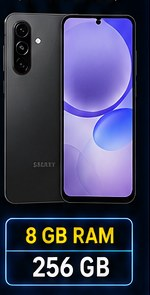
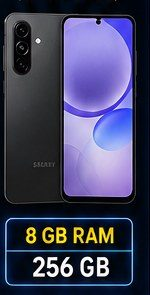
Add files via upload

diff --git a/index.html b/index.html
@@ -109,7 +109,7 @@ footer{margin-top:55px;background:#071b68;color:#fff;padding:35px 20px}
 <a class="btn" href="https://wa.me/595975403525?text=Hola%20Audi,%20quiero%20la%20cotizaci%C3%B3n%20actual%20de%20OPPO%20A20" target="_blank">💬 Contactame por WhatsApp</a>
 </div>
 </article><article class="card" data-search="OPPO OPPO A40">
-<div class="photo-wrap"><img alt="OPPO A40" loading="lazy" src="img/producto_07.png"/></div></article></div>
+<div class="photo-wrap"><img alt="OPPO A40" loading="lazy" src="img/producto_07.jpg"/></div></article></div>
 <div class="card-body">
 <div class="brand">OPPO</div>
 <h3>OPPO A40</h3>
@@ -118,7 +118,7 @@ footer{margin-top:55px;background:#071b68;color:#fff;padding:35px 20px}
 <a class="btn" href="https://wa.me/595975403525?text=Hola%20Audi,%20quiero%20la%20cotizaci%C3%B3n%20actual%20de%20OPPO%20A40" target="_blank">💬 Contactame por WhatsApp</a>
 </div>
 <article class="card" data-search="OPPO OPPO A5">
-<div class="photo-wrap"><img alt="OPPO A5" loading="lazy" src="img/producto_08.png"/></div>
+<div class="photo-wrap"><img alt="OPPO A5" loading="lazy" src="img/producto_08.jpg"/></div>
 <div class="card-body">
 <div class="brand">OPPO</div>
 <h3>OPPO A5</h3>
@@ -127,7 +127,7 @@ footer{margin-top:55px;background:#071b68;color:#fff;padding:35px 20px}
 <a class="btn" href="https://wa.me/595975403525?text=Hola%20Audi,%20quiero%20la%20cotizaci%C3%B3n%20actual%20de%20OPPO%20A5" target="_blank">💬 Contactame por WhatsApp</a>
 </div>
 </article><article class="card" data-search="OPPO OPPO A6">
-<div class="photo-wrap"><img alt="OPPO A6" loading="lazy" src="img/producto_09.png"/></div>
+<div class="photo-wrap"><img alt="OPPO A6" loading="lazy" src="img/producto_09.jpg"/></div>
 <div class="card-body">
 <div class="brand">OPPO</div>
 <h3>OPPO A6</h3>
@@ -136,7 +136,7 @@ footer{margin-top:55px;background:#071b68;color:#fff;padding:35px 20px}
 <a class="btn" href="https://wa.me/595975403525?text=Hola%20Audi,%20quiero%20la%20cotizaci%C3%B3n%20actual%20de%20OPPO%20A6" target="_blank">💬 Contactame por WhatsApp</a>
 </div>
 </article><article class="card" data-search="OPPO OPPO A6X">
-<div class="photo-wrap"><img alt="OPPO A6X" loading="lazy" src="img/producto_10.png"/></div>
+<div class="photo-wrap"><img alt="OPPO A6X" loading="lazy" src="img/producto_10.jpg"/></div>
 <div class="card-body">
 <div class="brand">OPPO</div>
 <h3>OPPO A6X</h3>
@@ -145,7 +145,7 @@ footer{margin-top:55px;background:#071b68;color:#fff;padding:35px 20px}
 <a class="btn" href="https://wa.me/595975403525?text=Hola%20Audi,%20quiero%20la%20cotizaci%C3%B3n%20actual%20de%20OPPO%20A6X" target="_blank">💬 Contactame por WhatsApp</a>
 </div>
 </article><article class="card" data-search="OPPO OPPO Reno 13F">
-<div class="photo-wrap"><img alt="OPPO Reno 13F" loading="lazy" src="img/producto_11.png"/></div>
+<div class="photo-wrap"><img alt="OPPO Reno 13F" loading="lazy" src="img/producto_11.jpg"/></div>
 <div class="card-body">
 <div class="brand">OPPO</div>
 <h3>OPPO Reno 13F</h3>
@@ -154,7 +154,7 @@ footer{margin-top:55px;background:#071b68;color:#fff;padding:35px 20px}
 <a class="btn" href="https://wa.me/595975403525?text=Hola%20Audi,%20quiero%20la%20cotizaci%C3%B3n%20actual%20de%20OPPO%20Reno%2013F" target="_blank">💬 Contactame por WhatsApp</a>
 </div>
 </article><article class="card" data-search="OPPO OPPO Reno 13">
-<div class="photo-wrap"><img alt="OPPO Reno 13" loading="lazy" src="img/producto_12.png"/></div>
+<div class="photo-wrap"><img alt="OPPO Reno 13" loading="lazy" src="img/producto_12.jpg"/></div>
 <div class="card-body">
 <div class="brand">OPPO</div>
 <h3>OPPO Reno 13</h3>
@@ -163,7 +163,7 @@ footer{margin-top:55px;background:#071b68;color:#fff;padding:35px 20px}
 <a class="btn" href="https://wa.me/595975403525?text=Hola%20Audi,%20quiero%20la%20cotizaci%C3%B3n%20actual%20de%20OPPO%20Reno%2013" target="_blank">💬 Contactame por WhatsApp</a>
 </div>
 </article><article class="card" data-search="OPPO OPPO Reno 14F">
-<div class="photo-wrap"><img alt="OPPO Reno 14F" loading="lazy" src="img/producto_13.png"/></div>
+<div class="photo-wrap"><img alt="OPPO Reno 14F" loading="lazy" src="img/producto_13.jpg"/></div>
 <div class="card-body">
 <div class="brand">OPPO</div>
 <h3>OPPO Reno 14F</h3>
@@ -172,7 +172,7 @@ footer{margin-top:55px;background:#071b68;color:#fff;padding:35px 20px}
 <a class="btn" href="https://wa.me/595975403525?text=Hola%20Audi,%20quiero%20la%20cotizaci%C3%B3n%20actual%20de%20OPPO%20Reno%2014F" target="_blank">💬 Contactame por WhatsApp</a>
 </div>
 </article><article class="card" data-search="OPPO OPPO Reno 14F Star Wars">
-<div class="photo-wrap"><img alt="OPPO Reno 14F Star Wars" loading="lazy" src="img/producto_14.png"/></div>
+<div class="photo-wrap"><img alt="OPPO Reno 14F Star Wars" loading="lazy" src="img/producto_14.jpg"/></div>
 <div class="card-body">
 <div class="brand">OPPO</div>
 <h3>OPPO Reno 14F Star Wars</h3>
@@ -183,7 +183,7 @@ footer{margin-top:55px;background:#071b68;color:#fff;padding:35px 20px}
 </article>
 
 </section>
-<section class="section" id="samsung"><div class="section-title"><h2>🔵 SAMSUNG GALAXY</h2></div><div style="text-align:center;color:#666;margin:-10px 0 22px;font-weight:600;">Serie Galaxy A • Nuevos y originales</div><div class="grid"><article class="card" data-search="SAMSUNG Galaxy A06 4GB / 64GB"><div class="photo-wrap"><img alt="Galaxy A06 4GB / 64GB" loading="lazy" src="img/producto_15.jpg"/></div><div class="card-body"><div class="brand">SAMSUNG</div><h3>Galaxy A06</h3><p>Galaxy • 4GB / 64GB • Smartphone Samsung</p><div class="quote">US$ 98</div><a class="btn" href="https://wa.me/595975403525?text=Hola%20Audi,%20quiero%20la%20cotización%20actual%20de%20Galaxy%20A06%204GB%20/%2064GB" target="_blank">💬 Contactame por WhatsApp</a></div></article><article class="card" data-search="SAMSUNG Galaxy A07 4GB / 64GB"><div class="photo-wrap"><img alt="Galaxy A07 4GB / 64GB" loading="lazy" src="img/producto_16.jpg"/></div><div class="card-body"><div class="brand">SAMSUNG</div><h3>Galaxy A07</h3><p>Galaxy • 4GB / 64GB • Smartphone Samsung</p><div class="quote">US$ 110</div><a class="btn" href="https://wa.me/595975403525?text=Hola%20Audi,%20quiero%20la%20cotización%20actual%20de%20Galaxy%20A07%204GB%20/%2064GB" target="_blank">💬 Contactame por WhatsApp</a></div></article><article class="card" data-search="SAMSUNG Galaxy A07 4GB / 128GB"><div class="photo-wrap"><img alt="Galaxy A07 4GB / 128GB" loading="lazy" src="img/producto_17.jpg"/></div><div class="card-body"><div class="brand">SAMSUNG</div><h3>Galaxy A07</h3><p>Galaxy • 4GB / 128GB • Smartphone Samsung</p><div class="quote">US$ 135</div><a class="btn" href="https://wa.me/595975403525?text=Hola%20Audi,%20quiero%20la%20cotización%20actual%20de%20Galaxy%20A07%204GB%20/%20128GB" target="_blank">💬 Contactame por WhatsApp</a></div></article><article class="card" data-search="SAMSUNG Galaxy A16 4GB / 128GB"><div class="photo-wrap"><img alt="Galaxy A16 4GB / 128GB" loading="lazy" src="img/producto_18.jpg"/></div><div class="card-body"><div class="brand">SAMSUNG</div><h3>Galaxy A16</h3><p>Galaxy • 4GB / 128GB • Smartphone Samsung</p><div class="quote">US$ 140</div><a class="btn" href="https://wa.me/595975403525?text=Hola%20Audi,%20quiero%20la%20cotización%20actual%20de%20Galaxy%20A16%204GB%20/%20128GB" target="_blank">💬 Contactame por WhatsApp</a></div></article><article class="card" data-search="SAMSUNG Galaxy A17 4GB / 128GB"><div class="photo-wrap"><img alt="Galaxy A17 4GB / 128GB" loading="lazy" src="img/producto_19.jpg"/></div><div class="card-body"><div class="brand">SAMSUNG</div><h3>Galaxy A17</h3><p>Galaxy • 4GB / 128GB • Smartphone Samsung</p><div class="quote">US$ 165</div><a class="btn" href="https://wa.me/595975403525?text=Hola%20Audi,%20quiero%20la%20cotización%20actual%20de%20Galaxy%20A17%204GB%20/%20128GB" target="_blank">💬 Contactame por WhatsApp</a></div></article><article class="card" data-search="SAMSUNG Galaxy A17 8GB / 256GB"><div class="photo-wrap"><img alt="Galaxy A17 8GB / 256GB" loading="lazy" src="img/producto_20.jpg"/></div><div class="card-body"><div class="brand">SAMSUNG</div><h3>Galaxy A17</h3><p>Galaxy • 8GB / 256GB • Smartphone Samsung</p><div class="quote">US$ 205</div><a class="btn" href="https://wa.me/595975403525?text=Hola%20Audi,%20quiero%20la%20cotización%20actual%20de%20Galaxy%20A17%208GB%20/%20256GB" target="_blank">💬 Contactame por WhatsApp</a></div></article><article class="card" data-search="SAMSUNG Galaxy A26 8GB / 256GB"><div class="photo-wrap"><img alt="Galaxy A26 8GB / 256GB" loading="lazy" src="img/producto_21.jpg"/></div><div class="card-body"><div class="brand">SAMSUNG</div><h3>Galaxy A26</h3><p>Galaxy • 8GB / 256GB • Smartphone Samsung</p><div class="quote">US$ 270</div><a class="btn" href="https://wa.me/595975403525?text=Hola%20Audi,%20quiero%20la%20cotización%20actual%20de%20Galaxy%20A26%208GB%20/%20256GB" target="_blank">💬 Contactame por WhatsApp</a></div></article><article class="card" data-search="SAMSUNG Galaxy A36 8GB / 256GB"><div class="photo-wrap"><img alt="Galaxy A36 8GB / 256GB" loading="lazy" src="img/producto_22.jpg"/></div><div class="card-body"><div class="brand">SAMSUNG</div><h3>Galaxy A36</h3><p>Galaxy • 8GB / 256GB • Smartphone Samsung</p><div class="quote">US$ 295</div><a class="btn" href="https://wa.me/595975403525?text=Hola%20Audi,%20quiero%20la%20cotización%20actual%20de%20Galaxy%20A36%208GB%20/%20256GB" target="_blank">💬 Contactame por WhatsApp</a></div></article><article class="card" data-search="SAMSUNG Galaxy A37 8GB / 256GB"><div class="photo-wrap"><img alt="Galaxy A37 8GB / 256GB" loading="lazy" src="img/producto_23.jpg"/></div><div class="card-body"><div class="brand">SAMSUNG</div><h3>Galaxy A37</h3><p>Galaxy • 8GB / 256GB • Smartphone Samsung</p><div class="quote">US$ 410</div><a class="btn" href="https://wa.me/595975403525?text=Hola%20Audi,%20quiero%20la%20cotización%20actual%20de%20Galaxy%20A37%208GB%20/%20256GB" target="_blank">💬 Contactame por WhatsApp</a></div></article><article class="card" data-search="SAMSUNG Galaxy A56 8GB / 256GB"><div class="photo-wrap"><img alt="Galaxy A56 8GB / 256GB" loading="lazy" src="img/producto_24.jpg"/></div><div class="card-body"><div class="brand">SAMSUNG</div><h3>Galaxy A56</h3><p>Galaxy • 8GB / 256GB • Smartphone Samsung</p><div class="quote">US$ 380</div><a class="btn" href="https://wa.me/595975403525?text=Hola%20Audi,%20quiero%20la%20cotización%20actual%20de%20Galaxy%20A56%208GB%20/%20256GB" target="_blank">💬 Contactame por WhatsApp</a></div></article><article class="card" data-search="SAMSUNG Galaxy A56 12GB / 256GB"><div class="photo-wrap"><img alt="Galaxy A56 12GB / 256GB" loading="lazy" src="img/producto_25.jpg"/></div><div class="card-body"><div class="brand">SAMSUNG</div><h3>Galaxy A56</h3><p>Galaxy • 12GB / 256GB • Smartphone Samsung</p><div class="quote">US$ 430</div><a class="btn" href="https://wa.me/595975403525?text=Hola%20Audi,%20quiero%20la%20cotización%20actual%20de%20Galaxy%20A56%2012GB%20/%20256GB" target="_blank">💬 Contactame por WhatsApp</a></div></article><article class="card" data-search="SAMSUNG Galaxy A57 8GB / 256GB"><div class="photo-wrap"><img alt="Galaxy A57 8GB / 256GB" loading="lazy" src="img/producto_26.jpg"/></div><div class="card-body"><div class="brand">SAMSUNG</div><h3>Galaxy A57</h3><p>Galaxy • 8GB / 256GB • Smartphone Samsung</p><div class="quote">US$ 455</div><a class="btn" href="https://wa.me/595975403525?text=Hola%20Audi,%20quiero%20la%20cotización%20actual%20de%20Galaxy%20A57%208GB%20/%20256GB" target="_blank">💬 Contactame por WhatsApp</a></div></article><article class="card" data-search="SAMSUNG Galaxy S26 12GB / 512GB Gama alta Galaxy AI"><div class="photo-wrap"><img src="img/producto_27.png" alt="Galaxy S26" loading="lazy"></div><div class="card-body"><div class="brand">SAMSUNG</div><h3>Galaxy S26</h3><p>12GB / 512GB • Gama alta • Galaxy AI</p><div class="quote">US$ 895</div><a class="btn" href="https://wa.me/595975403525?text=Hola%20Audi,%20quiero%20la%20cotización%20actual%20de%20Galaxy S26%2012GB%20/%20512GB" target="_blank">💬 Contactame por WhatsApp</a></div></article><article class="card" data-search="SAMSUNG Galaxy S26+ 12GB / 256GB Gama alta Galaxy AI"><div class="photo-wrap"><img src="img/producto_28.png" alt="Galaxy S26+" loading="lazy"></div><div class="card-body"><div class="brand">SAMSUNG</div><h3>Galaxy S26+</h3><p>12GB / 256GB • Gama alta • Galaxy AI</p><div class="quote">US$ 970</div><a class="btn" href="https://wa.me/595975403525?text=Hola%20Audi,%20quiero%20la%20cotización%20actual%20de%20Galaxy S26%2B%2012GB%20/%20256GB" target="_blank">💬 Contactame por WhatsApp</a></div></article><article class="card" data-search="SAMSUNG Galaxy S26 Ultra 12GB / 256GB Gama alta Galaxy AI"><div class="photo-wrap"><img src="img/producto_29.png" alt="Galaxy S26 Ultra" loading="lazy"></div><div class="card-body"><div class="brand">SAMSUNG</div><h3>Galaxy S26 Ultra</h3><p>12GB / 256GB • Gama alta • Galaxy AI</p><div class="quote">US$ 1,130</div><a class="btn" href="https://wa.me/595975403525?text=Hola%20Audi,%20quiero%20la%20cotización%20actual%20de%20Galaxy S26 Ultra%2012GB%20/%20256GB" target="_blank">💬 Contactame por WhatsApp</a></div></article><article class="card" data-search="SAMSUNG Galaxy S26 Ultra 12GB / 512GB Gama alta Galaxy AI"><div class="photo-wrap"><img src="img/producto_30.png" alt="Galaxy S26 Ultra" loading="lazy"></div><div class="card-body"><div class="brand">SAMSUNG</div><h3>Galaxy S26 Ultra</h3><p>12GB / 512GB • Gama alta • Galaxy AI</p><div class="quote">US$ 1,230</div><a class="btn" href="https://wa.me/595975403525?text=Hola%20Audi,%20quiero%20la%20cotización%20actual%20de%20Galaxy S26 Ultra%2012GB%20/%20512GB" target="_blank">💬 Contactame por WhatsApp</a></div></article><article class="card" data-search="SAMSUNG Galaxy S26 Ultra 16GB / 1TB Gama alta Galaxy AI"><div class="photo-wrap"><img src="img/producto_31.png" alt="Galaxy S26 Ultra" loading="lazy"></div><div class="card-body"><div class="brand">SAMSUNG</div><h3>Galaxy S26 Ultra</h3><p>16GB / 1TB • Gama alta • Galaxy AI</p><div class="quote">US$ 1,630</div><a class="btn" href="https://wa.me/595975403525?text=Hola%20Audi,%20quiero%20la%20cotización%20actual%20de%20Galaxy S26 Ultra%2016GB%20/%201TB" target="_blank">💬 Contactame por WhatsApp</a></div></article></div></section><footer><div class="footer-in">
+<section class="section" id="samsung"><div class="section-title"><h2>🔵 SAMSUNG GALAXY</h2></div><div style="text-align:center;color:#666;margin:-10px 0 22px;font-weight:600;">Serie Galaxy A • Nuevos y originales</div><div class="grid"><article class="card" data-search="SAMSUNG Galaxy A06 4GB / 64GB"><div class="photo-wrap"><img alt="Galaxy A06 4GB / 64GB" loading="lazy" src="img/producto_15.jpg"/></div><div class="card-body"><div class="brand">SAMSUNG</div><h3>Galaxy A06</h3><p>Galaxy • 4GB / 64GB • Smartphone Samsung</p><div class="quote">US$ 98</div><a class="btn" href="https://wa.me/595975403525?text=Hola%20Audi,%20quiero%20la%20cotización%20actual%20de%20Galaxy%20A06%204GB%20/%2064GB" target="_blank">💬 Contactame por WhatsApp</a></div></article><article class="card" data-search="SAMSUNG Galaxy A07 4GB / 64GB"><div class="photo-wrap"><img alt="Galaxy A07 4GB / 64GB" loading="lazy" src="img/producto_16.jpg"/></div><div class="card-body"><div class="brand">SAMSUNG</div><h3>Galaxy A07</h3><p>Galaxy • 4GB / 64GB • Smartphone Samsung</p><div class="quote">US$ 110</div><a class="btn" href="https://wa.me/595975403525?text=Hola%20Audi,%20quiero%20la%20cotización%20actual%20de%20Galaxy%20A07%204GB%20/%2064GB" target="_blank">💬 Contactame por WhatsApp</a></div></article><article class="card" data-search="SAMSUNG Galaxy A07 4GB / 128GB"><div class="photo-wrap"><img alt="Galaxy A07 4GB / 128GB" loading="lazy" src="img/producto_17.jpg"/></div><div class="card-body"><div class="brand">SAMSUNG</div><h3>Galaxy A07</h3><p>Galaxy • 4GB / 128GB • Smartphone Samsung</p><div class="quote">US$ 135</div><a class="btn" href="https://wa.me/595975403525?text=Hola%20Audi,%20quiero%20la%20cotización%20actual%20de%20Galaxy%20A07%204GB%20/%20128GB" target="_blank">💬 Contactame por WhatsApp</a></div></article><article class="card" data-search="SAMSUNG Galaxy A16 4GB / 128GB"><div class="photo-wrap"><img alt="Galaxy A16 4GB / 128GB" loading="lazy" src="img/producto_18.jpg"/></div><div class="card-body"><div class="brand">SAMSUNG</div><h3>Galaxy A16</h3><p>Galaxy • 4GB / 128GB • Smartphone Samsung</p><div class="quote">US$ 140</div><a class="btn" href="https://wa.me/595975403525?text=Hola%20Audi,%20quiero%20la%20cotización%20actual%20de%20Galaxy%20A16%204GB%20/%20128GB" target="_blank">💬 Contactame por WhatsApp</a></div></article><article class="card" data-search="SAMSUNG Galaxy A17 4GB / 128GB"><div class="photo-wrap"><img alt="Galaxy A17 4GB / 128GB" loading="lazy" src="img/producto_19.jpg"/></div><div class="card-body"><div class="brand">SAMSUNG</div><h3>Galaxy A17</h3><p>Galaxy • 4GB / 128GB • Smartphone Samsung</p><div class="quote">US$ 165</div><a class="btn" href="https://wa.me/595975403525?text=Hola%20Audi,%20quiero%20la%20cotización%20actual%20de%20Galaxy%20A17%204GB%20/%20128GB" target="_blank">💬 Contactame por WhatsApp</a></div></article><article class="card" data-search="SAMSUNG Galaxy A17 8GB / 256GB"><div class="photo-wrap"><img alt="Galaxy A17 8GB / 256GB" loading="lazy" src="img/producto_20.jpg"/></div><div class="card-body"><div class="brand">SAMSUNG</div><h3>Galaxy A17</h3><p>Galaxy • 8GB / 256GB • Smartphone Samsung</p><div class="quote">US$ 205</div><a class="btn" href="https://wa.me/595975403525?text=Hola%20Audi,%20quiero%20la%20cotización%20actual%20de%20Galaxy%20A17%208GB%20/%20256GB" target="_blank">💬 Contactame por WhatsApp</a></div></article><article class="card" data-search="SAMSUNG Galaxy A26 8GB / 256GB"><div class="photo-wrap"><img alt="Galaxy A26 8GB / 256GB" loading="lazy" src="img/producto_21.jpg"/></div><div class="card-body"><div class="brand">SAMSUNG</div><h3>Galaxy A26</h3><p>Galaxy • 8GB / 256GB • Smartphone Samsung</p><div class="quote">US$ 270</div><a class="btn" href="https://wa.me/595975403525?text=Hola%20Audi,%20quiero%20la%20cotización%20actual%20de%20Galaxy%20A26%208GB%20/%20256GB" target="_blank">💬 Contactame por WhatsApp</a></div></article><article class="card" data-search="SAMSUNG Galaxy A36 8GB / 256GB"><div class="photo-wrap"><img alt="Galaxy A36 8GB / 256GB" loading="lazy" src="img/producto_22.jpg"/></div><div class="card-body"><div class="brand">SAMSUNG</div><h3>Galaxy A36</h3><p>Galaxy • 8GB / 256GB • Smartphone Samsung</p><div class="quote">US$ 295</div><a class="btn" href="https://wa.me/595975403525?text=Hola%20Audi,%20quiero%20la%20cotización%20actual%20de%20Galaxy%20A36%208GB%20/%20256GB" target="_blank">💬 Contactame por WhatsApp</a></div></article><article class="card" data-search="SAMSUNG Galaxy A37 8GB / 256GB"><div class="photo-wrap"><img alt="Galaxy A37 8GB / 256GB" loading="lazy" src="img/producto_23.jpg"/></div><div class="card-body"><div class="brand">SAMSUNG</div><h3>Galaxy A37</h3><p>Galaxy • 8GB / 256GB • Smartphone Samsung</p><div class="quote">US$ 410</div><a class="btn" href="https://wa.me/595975403525?text=Hola%20Audi,%20quiero%20la%20cotización%20actual%20de%20Galaxy%20A37%208GB%20/%20256GB" target="_blank">💬 Contactame por WhatsApp</a></div></article><article class="card" data-search="SAMSUNG Galaxy A56 8GB / 256GB"><div class="photo-wrap"><img alt="Galaxy A56 8GB / 256GB" loading="lazy" src="img/producto_24.jpg"/></div><div class="card-body"><div class="brand">SAMSUNG</div><h3>Galaxy A56</h3><p>Galaxy • 8GB / 256GB • Smartphone Samsung</p><div class="quote">US$ 380</div><a class="btn" href="https://wa.me/595975403525?text=Hola%20Audi,%20quiero%20la%20cotización%20actual%20de%20Galaxy%20A56%208GB%20/%20256GB" target="_blank">💬 Contactame por WhatsApp</a></div></article><article class="card" data-search="SAMSUNG Galaxy A56 12GB / 256GB"><div class="photo-wrap"><img alt="Galaxy A56 12GB / 256GB" loading="lazy" src="img/producto_25.jpg"/></div><div class="card-body"><div class="brand">SAMSUNG</div><h3>Galaxy A56</h3><p>Galaxy • 12GB / 256GB • Smartphone Samsung</p><div class="quote">US$ 430</div><a class="btn" href="https://wa.me/595975403525?text=Hola%20Audi,%20quiero%20la%20cotización%20actual%20de%20Galaxy%20A56%2012GB%20/%20256GB" target="_blank">💬 Contactame por WhatsApp</a></div></article><article class="card" data-search="SAMSUNG Galaxy A57 8GB / 256GB"><div class="photo-wrap"><img alt="Galaxy A57 8GB / 256GB" loading="lazy" src="img/producto_26.jpg"/></div><div class="card-body"><div class="brand">SAMSUNG</div><h3>Galaxy A57</h3><p>Galaxy • 8GB / 256GB • Smartphone Samsung</p><div class="quote">US$ 455</div><a class="btn" href="https://wa.me/595975403525?text=Hola%20Audi,%20quiero%20la%20cotización%20actual%20de%20Galaxy%20A57%208GB%20/%20256GB" target="_blank">💬 Contactame por WhatsApp</a></div></article><article class="card" data-search="SAMSUNG Galaxy S26 12GB / 512GB Gama alta Galaxy AI"><div class="photo-wrap"><img src="img/producto_27.jpg" alt="Galaxy S26" loading="lazy"></div><div class="card-body"><div class="brand">SAMSUNG</div><h3>Galaxy S26</h3><p>12GB / 512GB • Gama alta • Galaxy AI</p><div class="quote">US$ 895</div><a class="btn" href="https://wa.me/595975403525?text=Hola%20Audi,%20quiero%20la%20cotización%20actual%20de%20Galaxy S26%2012GB%20/%20512GB" target="_blank">💬 Contactame por WhatsApp</a></div></article><article class="card" data-search="SAMSUNG Galaxy S26+ 12GB / 256GB Gama alta Galaxy AI"><div class="photo-wrap"><img src="img/producto_28.jpg" alt="Galaxy S26+" loading="lazy"></div><div class="card-body"><div class="brand">SAMSUNG</div><h3>Galaxy S26+</h3><p>12GB / 256GB • Gama alta • Galaxy AI</p><div class="quote">US$ 970</div><a class="btn" href="https://wa.me/595975403525?text=Hola%20Audi,%20quiero%20la%20cotización%20actual%20de%20Galaxy S26%2B%2012GB%20/%20256GB" target="_blank">💬 Contactame por WhatsApp</a></div></article><article class="card" data-search="SAMSUNG Galaxy S26 Ultra 12GB / 256GB Gama alta Galaxy AI"><div class="photo-wrap"><img src="img/producto_29.jpg" alt="Galaxy S26 Ultra" loading="lazy"></div><div class="card-body"><div class="brand">SAMSUNG</div><h3>Galaxy S26 Ultra</h3><p>12GB / 256GB • Gama alta • Galaxy AI</p><div class="quote">US$ 1,130</div><a class="btn" href="https://wa.me/595975403525?text=Hola%20Audi,%20quiero%20la%20cotización%20actual%20de%20Galaxy S26 Ultra%2012GB%20/%20256GB" target="_blank">💬 Contactame por WhatsApp</a></div></article><article class="card" data-search="SAMSUNG Galaxy S26 Ultra 12GB / 512GB Gama alta Galaxy AI"><div class="photo-wrap"><img src="img/producto_30.jpg" alt="Galaxy S26 Ultra" loading="lazy"></div><div class="card-body"><div class="brand">SAMSUNG</div><h3>Galaxy S26 Ultra</h3><p>12GB / 512GB • Gama alta • Galaxy AI</p><div class="quote">US$ 1,230</div><a class="btn" href="https://wa.me/595975403525?text=Hola%20Audi,%20quiero%20la%20cotización%20actual%20de%20Galaxy S26 Ultra%2012GB%20/%20512GB" target="_blank">💬 Contactame por WhatsApp</a></div></article><article class="card" data-search="SAMSUNG Galaxy S26 Ultra 16GB / 1TB Gama alta Galaxy AI"><div class="photo-wrap"><img src="img/producto_31.jpg" alt="Galaxy S26 Ultra" loading="lazy"></div><div class="card-body"><div class="brand">SAMSUNG</div><h3>Galaxy S26 Ultra</h3><p>16GB / 1TB • Gama alta • Galaxy AI</p><div class="quote">US$ 1,630</div><a class="btn" href="https://wa.me/595975403525?text=Hola%20Audi,%20quiero%20la%20cotización%20actual%20de%20Galaxy S26 Ultra%2016GB%20/%201TB" target="_blank">💬 Contactame por WhatsApp</a></div></article></div></section><section class="section" id="xiaomi"><div class="section-title"><h2>🟠 XIAOMI · REDMI · POCO</h2><p>17 modelos disponibles</p></div><div class="grid" id="grid-xiaomi"><article class="card" data-search="POCO POCO X8 Pro 12/512 GB"><div class="photo-wrap"><img src="img/xiaomi_x8.jpg" alt="POCO X8 Pro 12/512 GB" loading="lazy"></div><div class="card-body"><div class="brand">POCO</div><h3>POCO X8 Pro</h3><p>12/512 GB • Disponible</p><div class="quote">US$ 440</div><a class="btn" href="https://wa.me/595975403525?text=Hola%20Audi%2C%20quiero%20consultar%20POCO%20X8%20Pro%2012/512%20GB" target="_blank">💬 Contactame por WhatsApp</a></div></article><article class="card" data-search="POCO POCO X7 Pro 12/512 GB"><div class="photo-wrap"><img src="img/xiaomi_x7.jpg" alt="POCO X7 Pro 12/512 GB" loading="lazy"></div><div class="card-body"><div class="brand">POCO</div><h3>POCO X7 Pro</h3><p>12/512 GB • Disponible</p><div class="quote">US$ 380</div><a class="btn" href="https://wa.me/595975403525?text=Hola%20Audi%2C%20quiero%20consultar%20POCO%20X7%20Pro%2012/512%20GB" target="_blank">💬 Contactame por WhatsApp</a></div></article><article class="card" data-search="POCO POCO F8 Pro 12/512 GB"><div class="photo-wrap"><img src="img/xiaomi_f8.jpg" alt="POCO F8 Pro 12/512 GB" loading="lazy"></div><div class="card-body"><div class="brand">POCO</div><h3>POCO F8 Pro</h3><p>12/512 GB • Disponible</p><div class="quote">US$ 600</div><a class="btn" href="https://wa.me/595975403525?text=Hola%20Audi%2C%20quiero%20consultar%20POCO%20F8%20Pro%2012/512%20GB" target="_blank">💬 Contactame por WhatsApp</a></div></article><article class="card" data-search="POCO POCO C85 6/128 GB"><div class="photo-wrap"><img src="img/xiaomi_c85_6.jpg" alt="POCO C85 6/128 GB" loading="lazy"></div><div class="card-body"><div class="brand">POCO</div><h3>POCO C85</h3><p>6/128 GB • Disponible</p><div class="quote">US$ 140</div><a class="btn" href="https://wa.me/595975403525?text=Hola%20Audi%2C%20quiero%20consultar%20POCO%20C85%206/128%20GB" target="_blank">💬 Contactame por WhatsApp</a></div></article><article class="card" data-search="POCO POCO C85 8/256 GB"><div class="photo-wrap"><img src="img/xiaomi_c85_8.jpg" alt="POCO C85 8/256 GB" loading="lazy"></div><div class="card-body"><div class="brand">POCO</div><h3>POCO C85</h3><p>8/256 GB • Disponible</p><div class="quote">US$ 165</div><a class="btn" href="https://wa.me/595975403525?text=Hola%20Audi%2C%20quiero%20consultar%20POCO%20C85%208/256%20GB" target="_blank">💬 Contactame por WhatsApp</a></div></article><article class="card" data-search="POCO POCO C81 Pro 4/128 GB"><div class="photo-wrap"><img src="img/xiaomi_c81.jpg" alt="POCO C81 Pro 4/128 GB" loading="lazy"></div><div class="card-body"><div class="brand">POCO</div><h3>POCO C81 Pro</h3><p>4/128 GB • Disponible</p><div class="quote">US$ 125</div><a class="btn" href="https://wa.me/595975403525?text=Hola%20Audi%2C%20quiero%20consultar%20POCO%20C81%20Pro%204/128%20GB" target="_blank">💬 Contactame por WhatsApp</a></div></article><article class="card" data-search="POCO POCO C81 Pro 4/256 GB"><div class="photo-wrap"><img src="img/xiaomi_c81.jpg" alt="POCO C81 Pro 4/256 GB" loading="lazy"></div><div class="card-body"><div class="brand">POCO</div><h3>POCO C81 Pro</h3><p>4/256 GB • Disponible</p><div class="quote">US$ 145</div><a class="btn" href="https://wa.me/595975403525?text=Hola%20Audi%2C%20quiero%20consultar%20POCO%20C81%20Pro%204/256%20GB" target="_blank">💬 Contactame por WhatsApp</a></div></article><article class="card" data-search="POCO POCO C81 Pro 4/64 GB"><div class="photo-wrap"><img src="img/xiaomi_c81.jpg" alt="POCO C81 Pro 4/64 GB" loading="lazy"></div><div class="card-body"><div class="brand">POCO</div><h3>POCO C81 Pro</h3><p>4/64 GB • Disponible</p><div class="quote">US$ 110</div><a class="btn" href="https://wa.me/595975403525?text=Hola%20Audi%2C%20quiero%20consultar%20POCO%20C81%20Pro%204/64%20GB" target="_blank">💬 Contactame por WhatsApp</a></div></article><article class="card" data-search="REDMI Redmi 15C 4/128 GB"><div class="photo-wrap"><img src="img/xiaomi_15c_128.jpg" alt="Redmi 15C 4/128 GB" loading="lazy"></div><div class="card-body"><div class="brand">REDMI</div><h3>Redmi 15C</h3><p>4/128 GB • Disponible</p><div class="quote">US$ 135</div><a class="btn" href="https://wa.me/595975403525?text=Hola%20Audi%2C%20quiero%20consultar%20Redmi%2015C%204/128%20GB" target="_blank">💬 Contactame por WhatsApp</a></div></article><article class="card" data-search="REDMI Redmi 15C 4/256 GB"><div class="photo-wrap"><img src="img/xiaomi_15c_256.jpg" alt="Redmi 15C 4/256 GB" loading="lazy"></div><div class="card-body"><div class="brand">REDMI</div><h3>Redmi 15C</h3><p>4/256 GB • Disponible</p><div class="quote">US$ 155</div><a class="btn" href="https://wa.me/595975403525?text=Hola%20Audi%2C%20quiero%20consultar%20Redmi%2015C%204/256%20GB" target="_blank">💬 Contactame por WhatsApp</a></div></article><article class="card" data-search="REDMI Redmi 15 8/256 GB"><div class="photo-wrap"><img src="img/xiaomi_15.jpg" alt="Redmi 15 8/256 GB" loading="lazy"></div><div class="card-body"><div class="brand">REDMI</div><h3>Redmi 15</h3><p>8/256 GB • Disponible</p><div class="quote">US$ 165</div><a class="btn" href="https://wa.me/595975403525?text=Hola%20Audi%2C%20quiero%20consultar%20Redmi%2015%208/256%20GB" target="_blank">💬 Contactame por WhatsApp</a></div></article><article class="card" data-search="REDMI Redmi Note 15 8/256 GB"><div class="photo-wrap"><img src="img/xiaomi_n15.jpg" alt="Redmi Note 15 8/256 GB" loading="lazy"></div><div class="card-body"><div class="brand">REDMI</div><h3>Redmi Note 15</h3><p>8/256 GB • Disponible</p><div class="quote">US$ 220</div><a class="btn" href="https://wa.me/595975403525?text=Hola%20Audi%2C%20quiero%20consultar%20Redmi%20Note%2015%208/256%20GB" target="_blank">💬 Contactame por WhatsApp</a></div></article><article class="card" data-search="REDMI Redmi Note 15 Pro 8/256 GB"><div class="photo-wrap"><img src="img/xiaomi_n15pro.jpg" alt="Redmi Note 15 Pro 8/256 GB" loading="lazy"></div><div class="card-body"><div class="brand">REDMI</div><h3>Redmi Note 15 Pro</h3><p>8/256 GB • Disponible</p><div class="quote">US$ 280</div><a class="btn" href="https://wa.me/595975403525?text=Hola%20Audi%2C%20quiero%20consultar%20Redmi%20Note%2015%20Pro%208/256%20GB" target="_blank">💬 Contactame por WhatsApp</a></div></article><article class="card" data-search="REDMI Redmi Note 15 Pro+ 12/512 GB"><div class="photo-wrap"><img src="img/xiaomi_n15proplus.jpg" alt="Redmi Note 15 Pro+ 12/512 GB" loading="lazy"></div><div class="card-body"><div class="brand">REDMI</div><h3>Redmi Note 15 Pro+</h3><p>12/512 GB • Disponible</p><div class="quote">US$ 440</div><a class="btn" href="https://wa.me/595975403525?text=Hola%20Audi%2C%20quiero%20consultar%20Redmi%20Note%2015%20Pro%2B%2012/512%20GB" target="_blank">💬 Contactame por WhatsApp</a></div></article><article class="card" data-search="REDMI Redmi A7 Pro 4/64 GB"><div class="photo-wrap"><img src="img/xiaomi_a7_64.jpg" alt="Redmi A7 Pro 4/64 GB" loading="lazy"></div><div class="card-body"><div class="brand">REDMI</div><h3>Redmi A7 Pro</h3><p>4/64 GB • Disponible</p><div class="quote">US$ 107</div><a class="btn" href="https://wa.me/595975403525?text=Hola%20Audi%2C%20quiero%20consultar%20Redmi%20A7%20Pro%204/64%20GB" target="_blank">💬 Contactame por WhatsApp</a></div></article><article class="card" data-search="REDMI Redmi A7 Pro 8/128 GB"><div class="photo-wrap"><img src="img/xiaomi_a7_128.jpg" alt="Redmi A7 Pro 8/128 GB" loading="lazy"></div><div class="card-body"><div class="brand">REDMI</div><h3>Redmi A7 Pro</h3><p>8/128 GB • Disponible</p><div class="quote">US$ 117</div><a class="btn" href="https://wa.me/595975403525?text=Hola%20Audi%2C%20quiero%20consultar%20Redmi%20A7%20Pro%208/128%20GB" target="_blank">💬 Contactame por WhatsApp</a></div></article><article class="card" data-search="REDMI Redmi A5 4/128 GB"><div class="photo-wrap"><img src="img/xiaomi_a5.jpg" alt="Redmi A5 4/128 GB" loading="lazy"></div><div class="card-body"><div class="brand">REDMI</div><h3>Redmi A5</h3><p>4/128 GB • Disponible</p><div class="quote">US$ 127</div><a class="btn" href="https://wa.me/595975403525?text=Hola%20Audi%2C%20quiero%20consultar%20Redmi%20A5%204/128%20GB" target="_blank">💬 Contactame por WhatsApp</a></div></article></div></section><footer><div class="footer-in">
 <div><b>AUDI HASSAN</b><br/>Tu vendedor de confianza · Encarnación, Paraguay</div>
 <div>WhatsApp: +595 975 403 525<br/>Envíos a todo Paraguay y Argentina</div>
 </div></footer>
